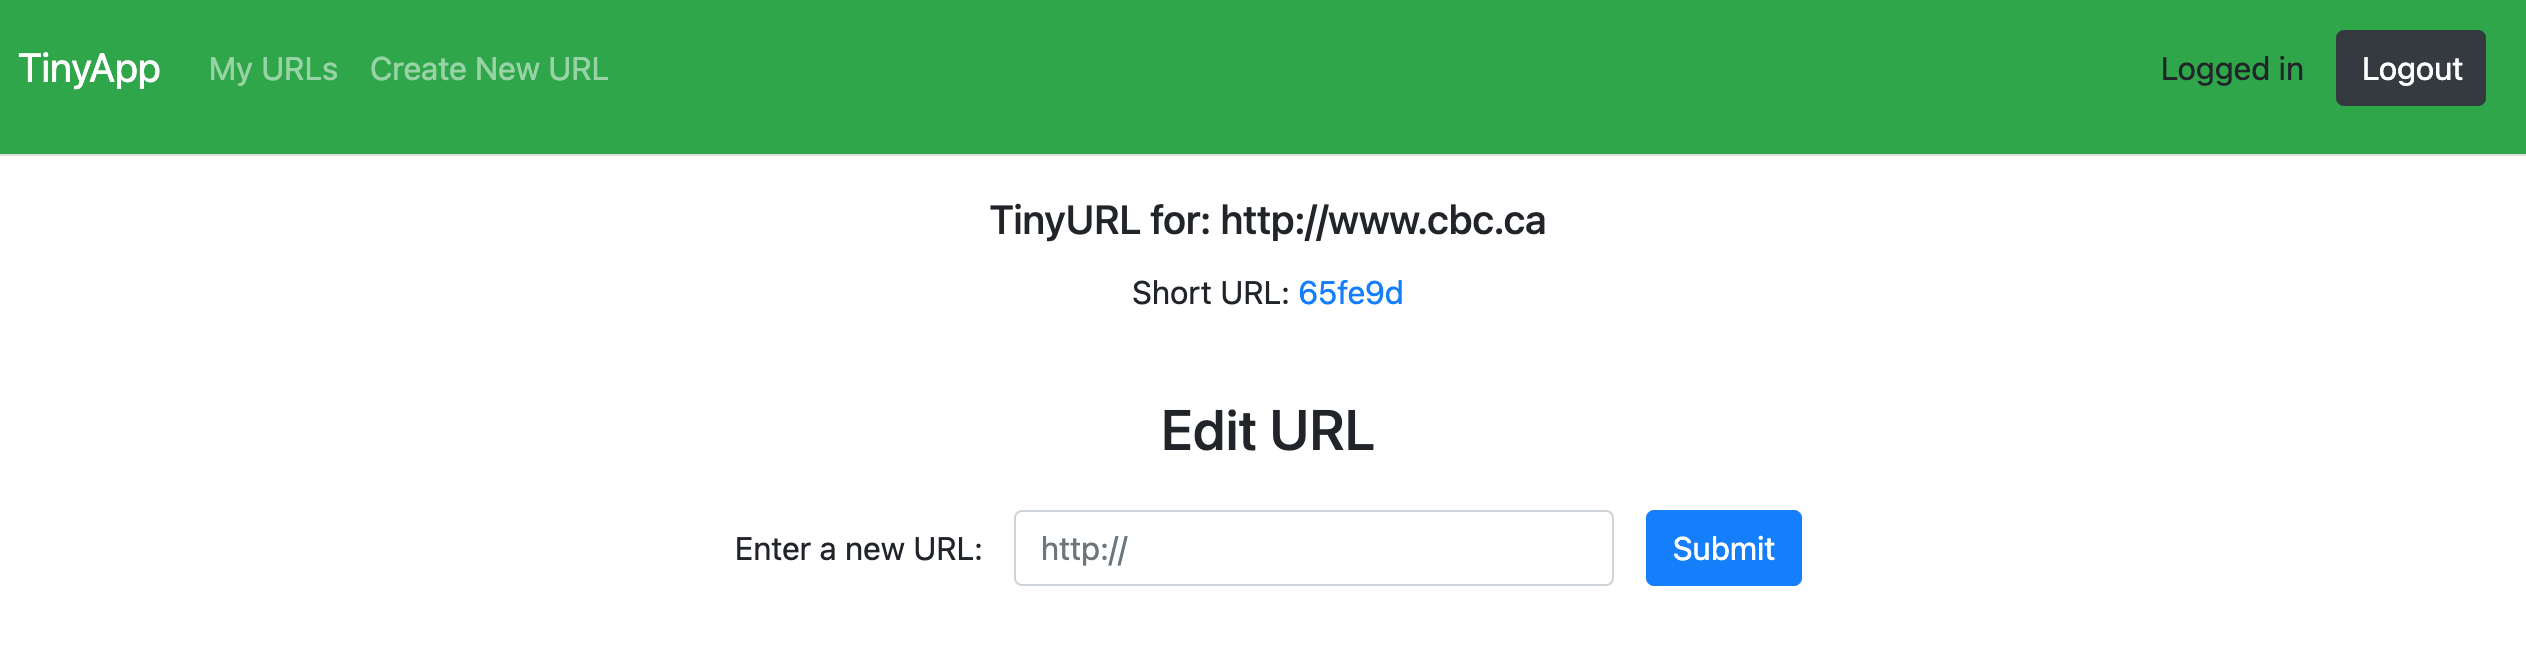
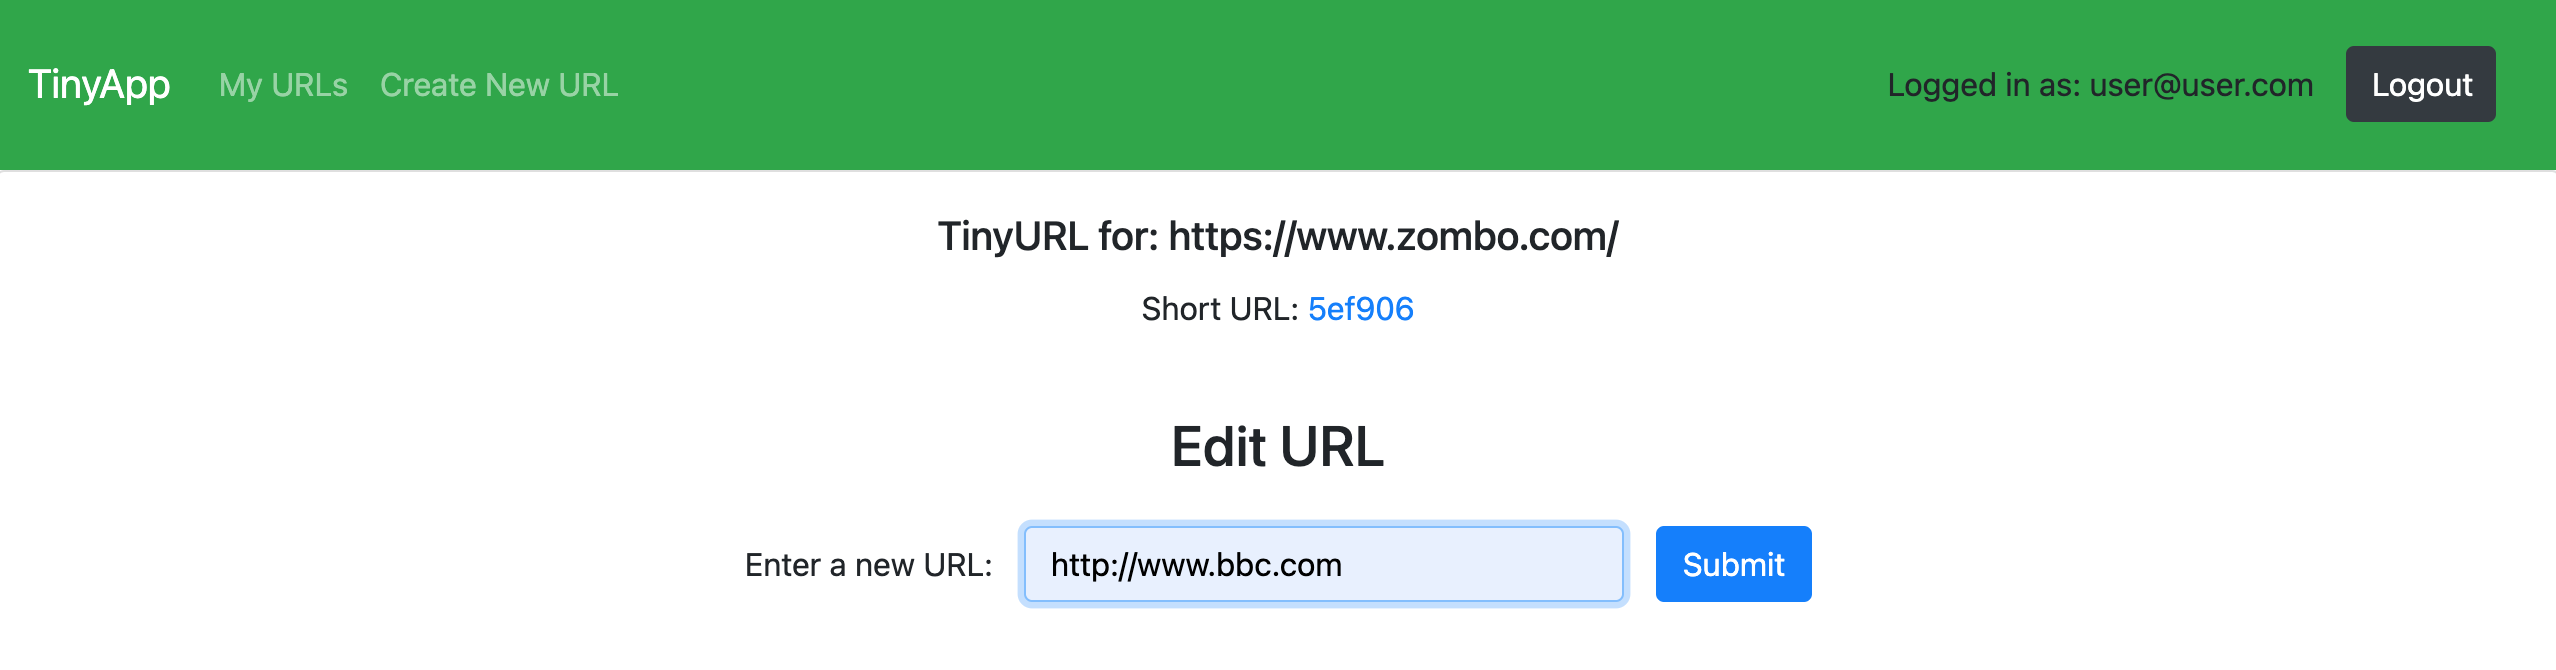
added new screenshots

diff --git a/express_server.js b/express_server.js
@@ -153,7 +153,7 @@ app.get("/urls/new", (req, res) => {
   const user = req.session.user_id;
   const email = req.body.email;
   const templateVars = {
-    user,
+    user: users[user],
     email,
   };
 
@@ -173,7 +173,7 @@ app.get("/urls/:shortURL", (req, res) => {
     email,
     shortURL,
     longURL: urlDatabase[req.params.shortURL].longURL,
-    user,
+    user: users[user],
   };
 
   if (user === undefined || user !== userID) {
